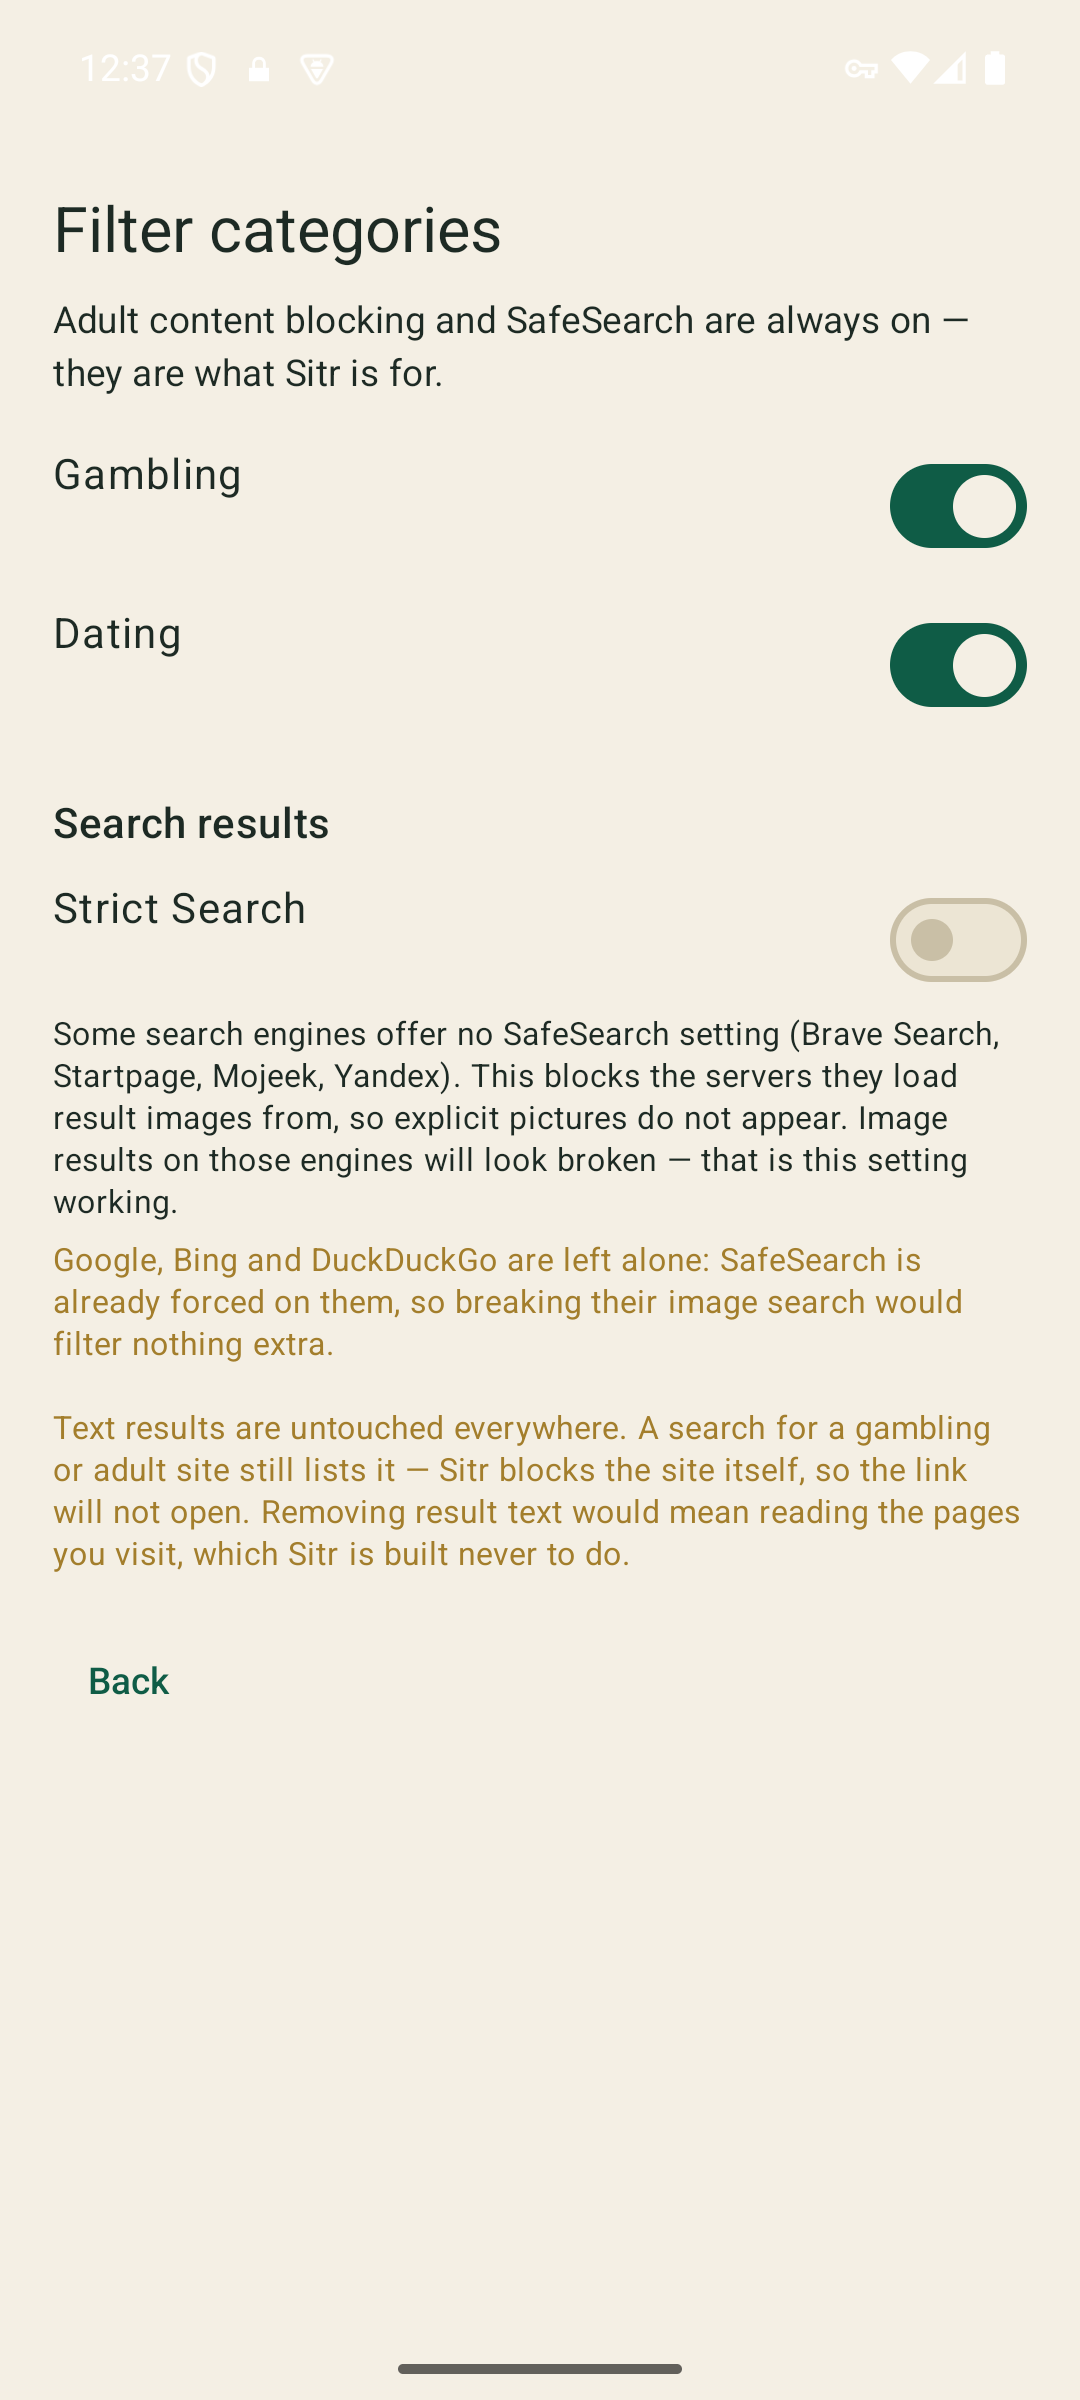
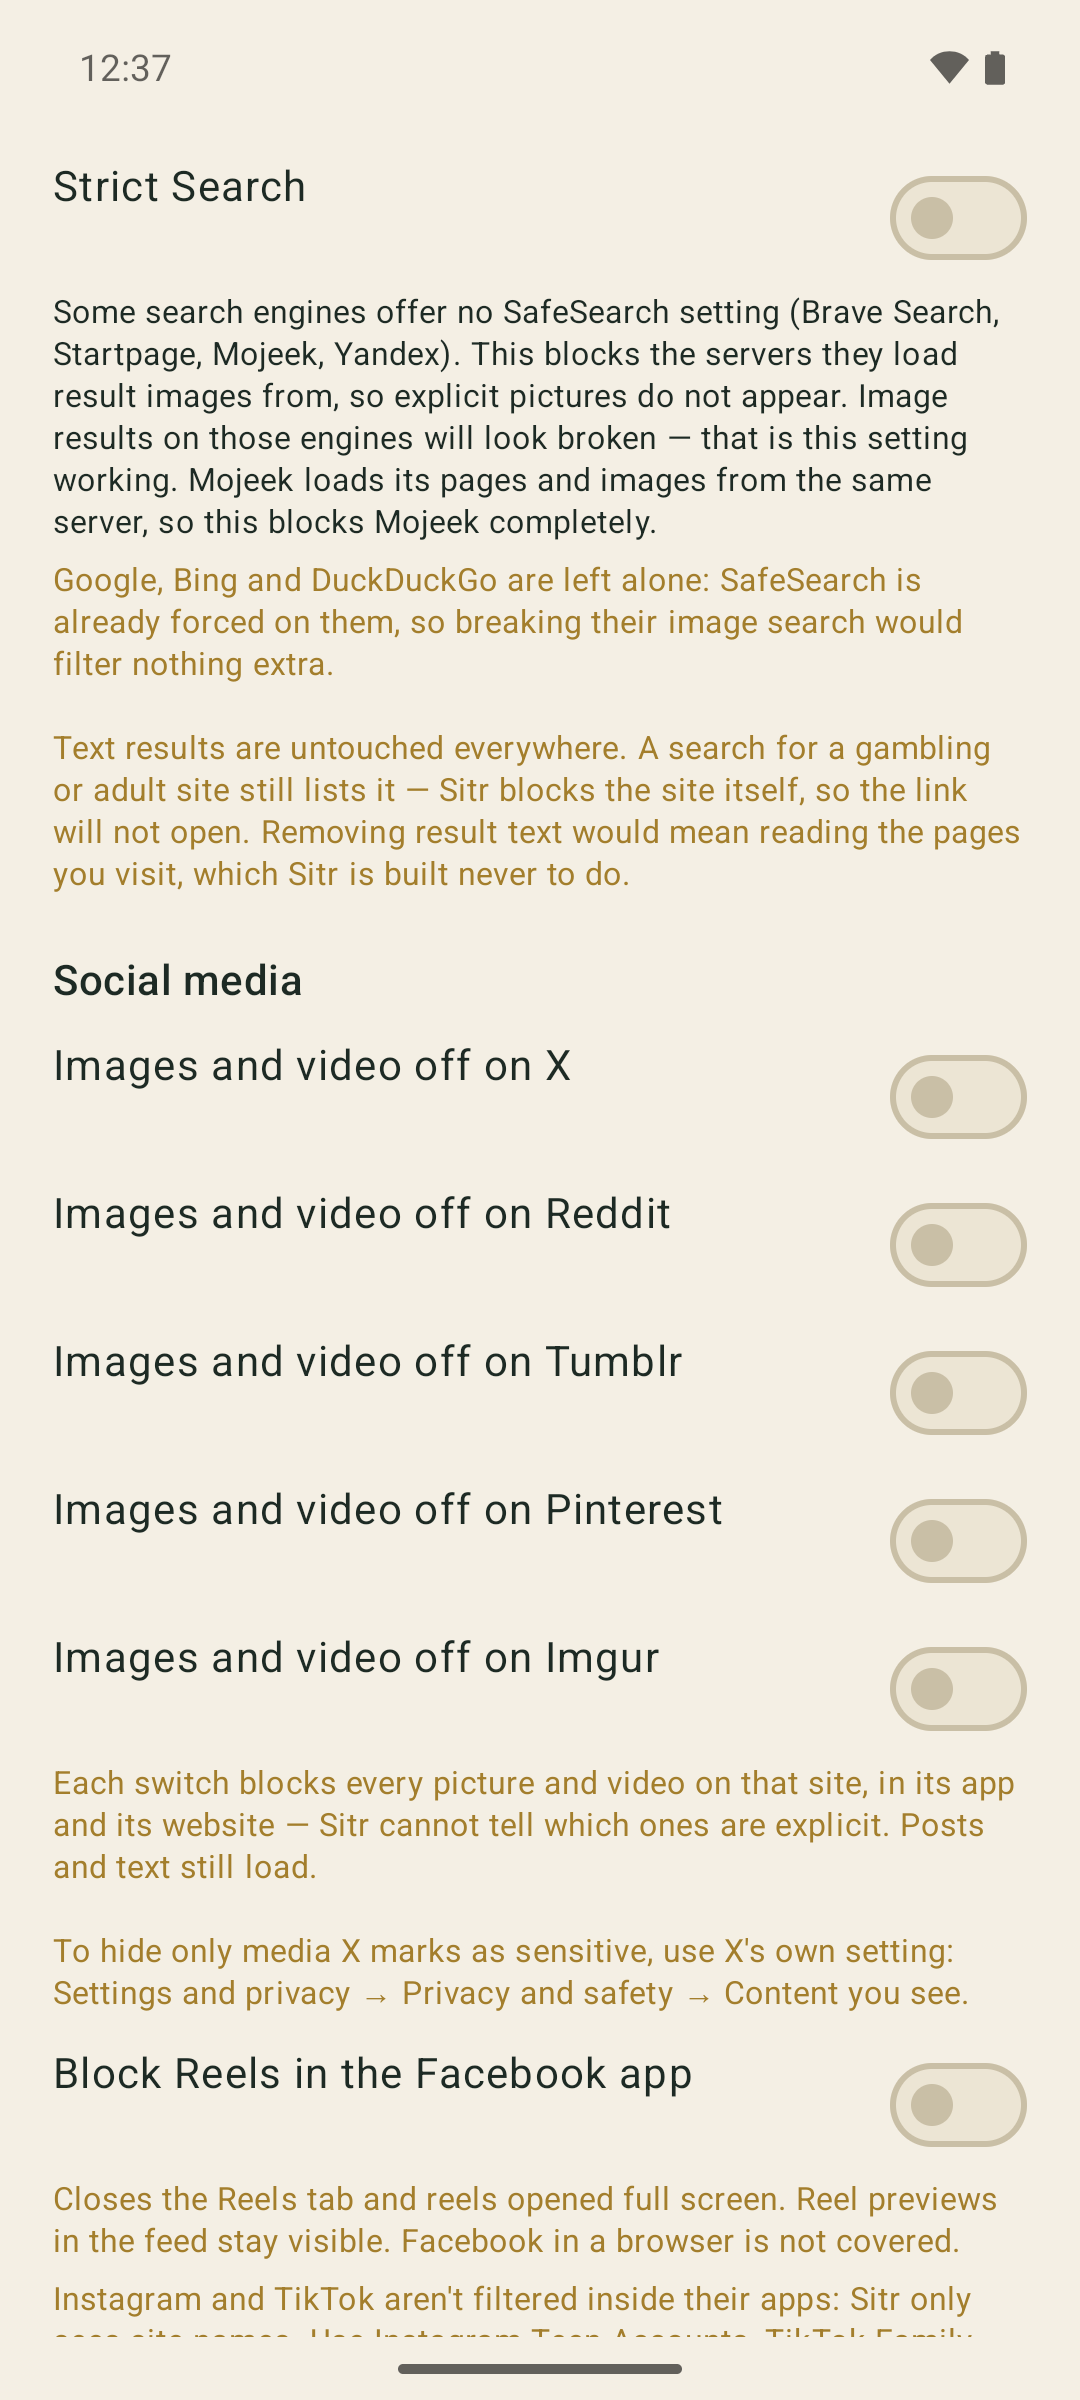
Android store listing: 0.3.0 accessibility video record, Filter categories screenshot retaken
The Accessibility API declaration section now describes the review video
recorded for versionCode 10 and Play's disclosure rule as re-read on
2026-11-24. The Filter categories screenshot is retaken from the 0.3.0
release build (no gambling or dating switches, the Reels switch in view),
with a headline that matches it. No app code changed; the versionCode 10
bundle and its tag are unaffected.

diff --git a/apps/android/store-listing/assets/screenshot-3.html b/apps/android/store-listing/assets/screenshot-3.html
@@ -3,4 +3,4 @@ html,body{margin:0;width:1080px;height:1920px;overflow:hidden;background:#121a16
 .bar{height:14px;background:repeating-linear-gradient(90deg,#3aa886 0 48px,#121a16 48px 66px,#c9a558 66px 114px,#121a16 114px 132px)}
 h1{margin:0;padding:70px 80px 0;font-size:64px;font-weight:700;line-height:1.15;letter-spacing:-1px;text-align:center;height:210px;display:flex;align-items:center;justify-content:center}
 .phone{display:block;margin:40px auto 0;width:675px;height:1500px;border-radius:48px;border:3px solid #2a3b32;box-shadow:0 30px 80px rgba(0,0,0,.6);object-fit:cover}
-</style><div class="bar"></div><h1>Pick the categories.<br>SafeSearch is always on.</h1><img class="phone" src="raw/shot-categories.png">
+</style><div class="bar"></div><h1>Block Reels and<br>social media images.<br>SafeSearch is always on.</h1><img class="phone" src="raw/shot-categories.png">

diff --git a/apps/android/store-listing/listing.md b/apps/android/store-listing/listing.md
@@ -165,7 +165,7 @@ child lock").
 |---|---|
 | Why does your app need the Accessibility Services API? | **App functionality** only |
 | Do you collect and/or share personal or sensitive data using the accessibility capabilities? | **No**. Window text, and for Reels blocking the Facebook app's screen items, is processed in memory on the device and discarded; nothing is stored and nothing leaves the phone. Must match Data safety and the privacy policy |
-| Video link | **A new video is needed for 0.3.0** (script below), recorded last, on the final build. Superseded record: `assets/video/sitr-accessibility-review.mp4` (gitignored; re-recorded 2026-11-11 on the `sitr-video` emulator with the 0.2.2 release build, whose disclosure names the Private DNS dialog, private space setup and the other settings pages that show Sitr's name; 1:47, captions burned in. Script, step times and captions are in `build/review-video/a11y-0.2.2/`. Older videos are kept as `sitr-accessibility-review-0.2.1.mp4` and `-0.2.0.mp4`). It shows the old disclosure and the old service name, so it no longer matches the app |
+| Video link | **Recorded 2026-11-24 for 0.3.0 (versionCode 10)**: `assets/video/sitr-accessibility-review.mp4` (gitignored; 2:24, 720 × 1770, no sound, captions burned in; what it shows is listed under "Video for 0.3.0" below; script, step times and captions in `build/review-video/a11y-0.3.0-vc10/`). Upload it unlisted and paste the link. The versionCode 8 video is kept as `sitr-accessibility-review-0.3.0-vc8.mp4`. Older record: `assets/video/sitr-accessibility-review.mp4` (gitignored; re-recorded 2026-11-11 on the `sitr-video` emulator with the 0.2.2 release build, whose disclosure names the Private DNS dialog, private space setup and the other settings pages that show Sitr's name; 1:47, captions burned in. Script, step times and captions are in `build/review-video/a11y-0.2.2/`. Older videos are kept as `sitr-accessibility-review-0.2.1.mp4` and `-0.2.0.mp4`). |
 
 Description wording if asked: "Sitr is a content filter and parental
 control. Its accessibility service has two separate uses, each off until
@@ -194,38 +194,45 @@ The app's disclosure dialog, word for word, is `GUARD_DISCLOSURE` in
 `apps/android/app/src/main/kotlin/com/sitrshield/app/ui/ChildLockScreen.kt`
 (also quoted in docs/reels-blocking-privacy.md).
 
-Before recording: re-read on screen Play's sentence that the
-accessibility disclosure "cannot be included with other disclosures
-pertaining to personal or sensitive data collection". Sitr shows one
-dialog for the two uses of the same service, read here as allowed. If the
-policy page forbids that, the fallback is a separate Reels-only dialog (a
-code change).
+Play's disclosure rule, re-read on 2026-11-24 (answer/10964491): the
+disclosure "Cannot be included with other disclosures pertaining to
+personal or sensitive data collection", and "should be a separate
+disclosure indicating why the app requires the AccessibilityService API
+and any potential use cases". The page does not say that each use needs
+its own dialog. Sitr shows one dialog, about the accessibility service
+only, covering its two uses; this is read as allowed. If a reviewer
+objects, the fallback is a separate Reels-only dialog (a code change).
 
-**Video for 0.3.0 (required parts, per answer/10964491)**: record last,
-on the final release build, on a device with the Facebook app installed
-and signed in to a test account (no personal posts or names on screen),
-captions on, about 2 minutes:
-1. Open Sitr on the device. The accessibility service is off.
-2. Filter categories → switch "Block Reels in the Facebook app" → the
-   disclosure dialog, shown whole (scroll it slowly).
-3. Decline: tap "No thanks". The switch stays off and nothing opens.
-4. Consent: switch it again → "I agree" → Accessibility settings → "Sitr
-   guard" with its description → switch on → Allow.
-5. Reels: open the Facebook app → tap the Reels tab: Facebook returns to
-   Home with the toast "Reels are off in Sitr". Open a reel from the feed:
-   Sitr presses Back, same toast. Show that the feed, Friends and
-   Marketplace stay open.
-6. Child lock: back in Sitr, Home → Child lock (household with a PIN
-   already set; step 1, always-on VPN, set off camera; step 2 is already
-   on, because the service is the same) → "Lock this phone", then long-press the Sitr icon → App info, and again
-   → Uninstall: each closes at once with "Locked by Sitr — ask your
-   guardian." Then open the lock with the PIN. (Don't go through
-   Settings → Apps: that whole page closes because Sitr is listed under
-   Recent apps, which looks like a crash on video.)
+**Video for 0.3.0 (recorded 2026-11-24)**: the five parts Play's page
+asks for, with captions, 2 minutes 24 seconds. Recorded on the
+`sitr-video` emulator with the versionCode 10 release build, in a test
+household set up off camera; the Reels part was recorded on a phone that
+has the Facebook app, with a test install of the same Sitr version (the
+same commit under another app id), because the emulator has no Facebook.
+1. Open Sitr from the home screen. The accessibility service is off.
+2. Filter categories → the switch "Block Reels in the Facebook app" → the
+   disclosure dialog, shown whole and scrolled slowly (35 seconds).
+3. Decline: "No thanks". The switch stays off and nothing opens.
+4. The switch again: the same disclosure appears again → "I agree" →
+   Android's Accessibility settings → "Sitr guard" with its description →
+   switched on → Android's own dialog → Allow. Back in Sitr the switch is
+   on.
+5. Reels blocking in use, on the phone: Sitr's switch on; then the
+   Facebook app, where the Reels tab is tapped twice and each time
+   Facebook returns to Home with "Reels are off in Sitr"; Marketplace,
+   Friends and Home stay open. The owner's feed is blacked out: only
+   Facebook's tab bar and Sitr's message are visible, and a card on screen
+   says so.
+6. Child lock in use, on the emulator: both steps on → "Lock this phone" →
+   Sitr's App info opens and is closed with "Locked by Sitr — ask your
+   guardian."; the uninstall prompt is closed the same way; then the lock
+   is opened with the guardian PIN (the app masks the digits).
 
-The child lock and Reels blocking on together, with Facebook in front,
-is not yet verified on a device; check it before recording. If the use changes later, Play
-requires submitting this form again; it has changed in 0.3.0 (above).
+Not in the video: a reel opened from the feed (it would show a real
+person's reel from the owner's account). The child lock and Reels
+blocking on together, with Facebook in front, were checked on a phone on
+2026-11-24. If the use changes later, Play requires submitting this form
+again; it has changed in 0.3.0 (above).
 
 ## Data safety form
 
@@ -316,9 +323,12 @@ cached Chrome for Testing in headless mode at the exact pixel size):
   emulator captures are in `raw/`; they are 9:20, outside Play's 16:9–9:16
   limit, hence the framing): Home active, blocked site in Chrome,
   Filter categories, VPN disclosure onboarding, Sitr Family.
-  **Retake the Filter categories screenshot for 0.3.0**: the gambling and
-  dating switches are gone and the "Block Reels in the Facebook app"
-  switch is new.
+  **Filter categories was retaken on 2026-11-24** from the 0.3.0
+  (versionCode 10) release build: the gambling and dating switches are
+  gone and the "Block Reels in the Facebook app" switch is in the picture.
+  The Home screenshot (`screenshot-1.png`) is from an older build: the
+  app now also shows a padlock, a "Pause" button and a "Child lock"
+  button there. It has not been retaken.
 - The promo video's claims still hold (checked frame by frame 2026-10-18;
   it never mentions accessibility). The separate 16:9 demo
   (`video/demo/`) said "No accessibility service"; that line was removed
